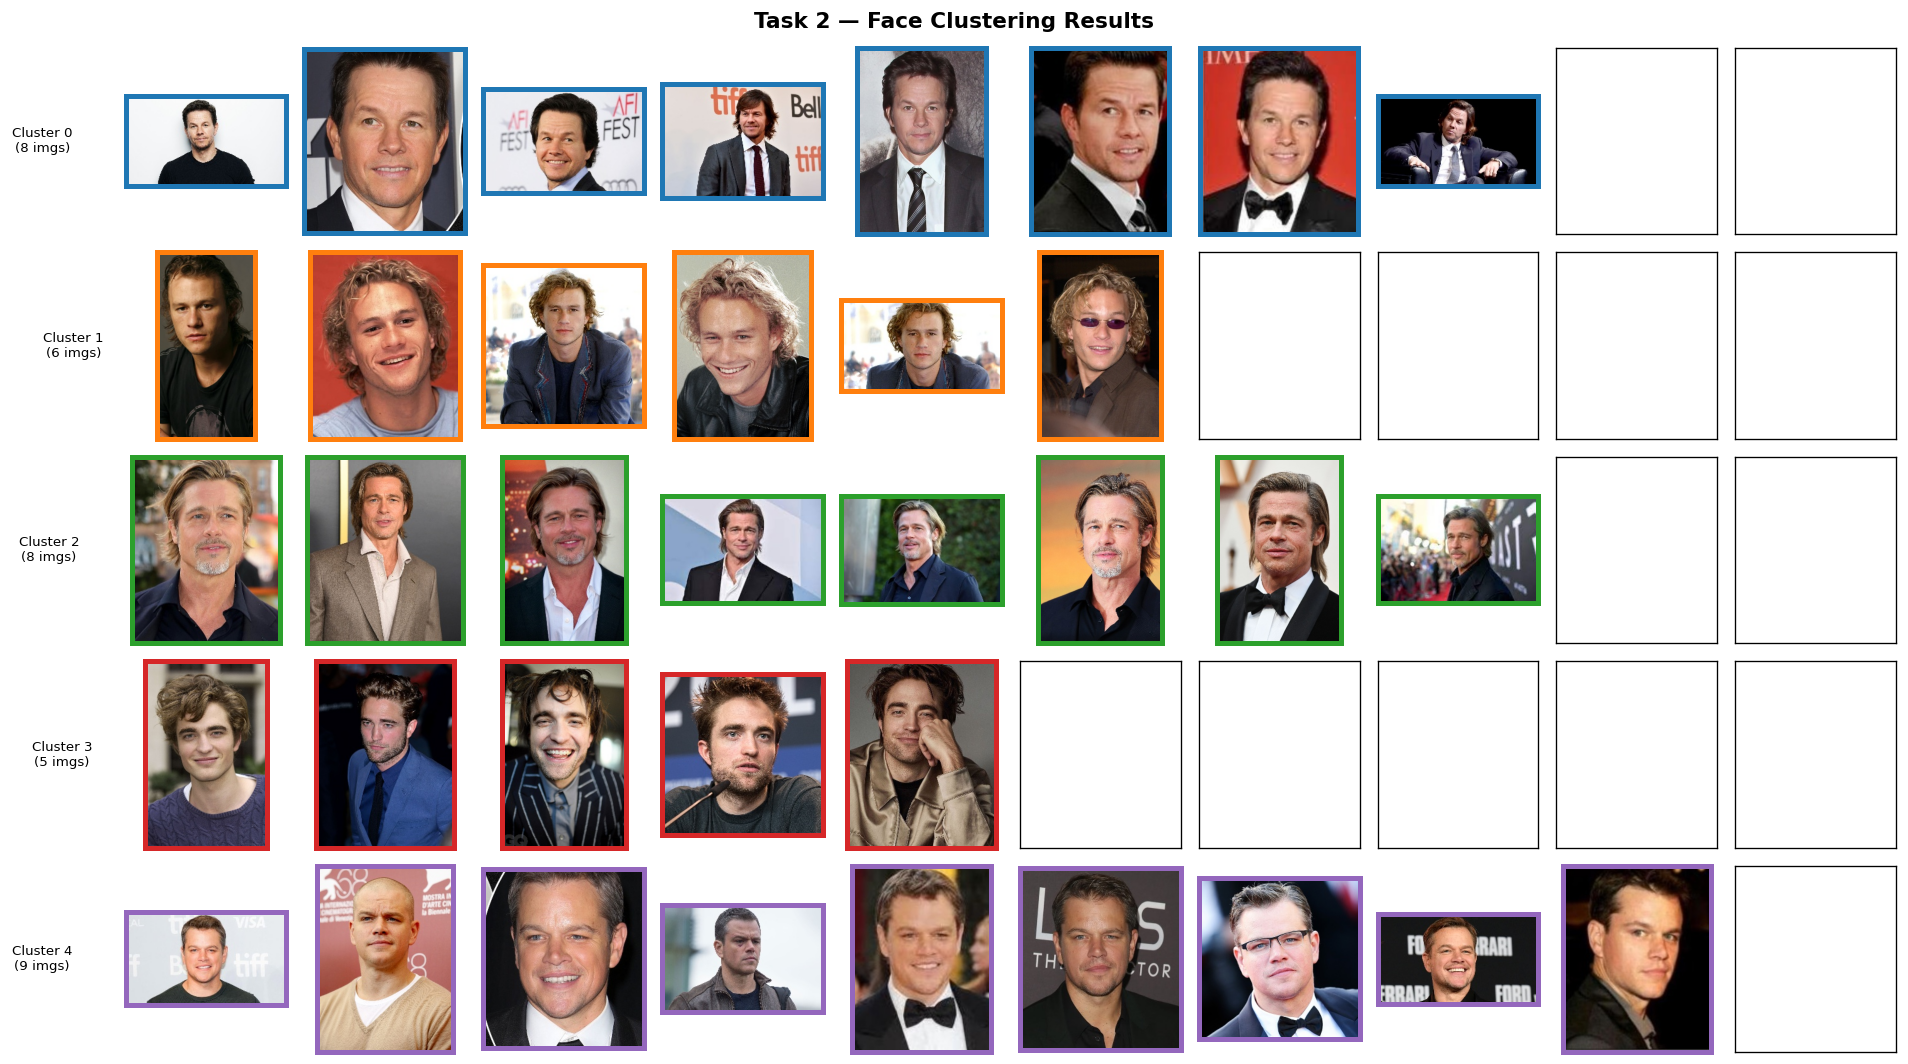
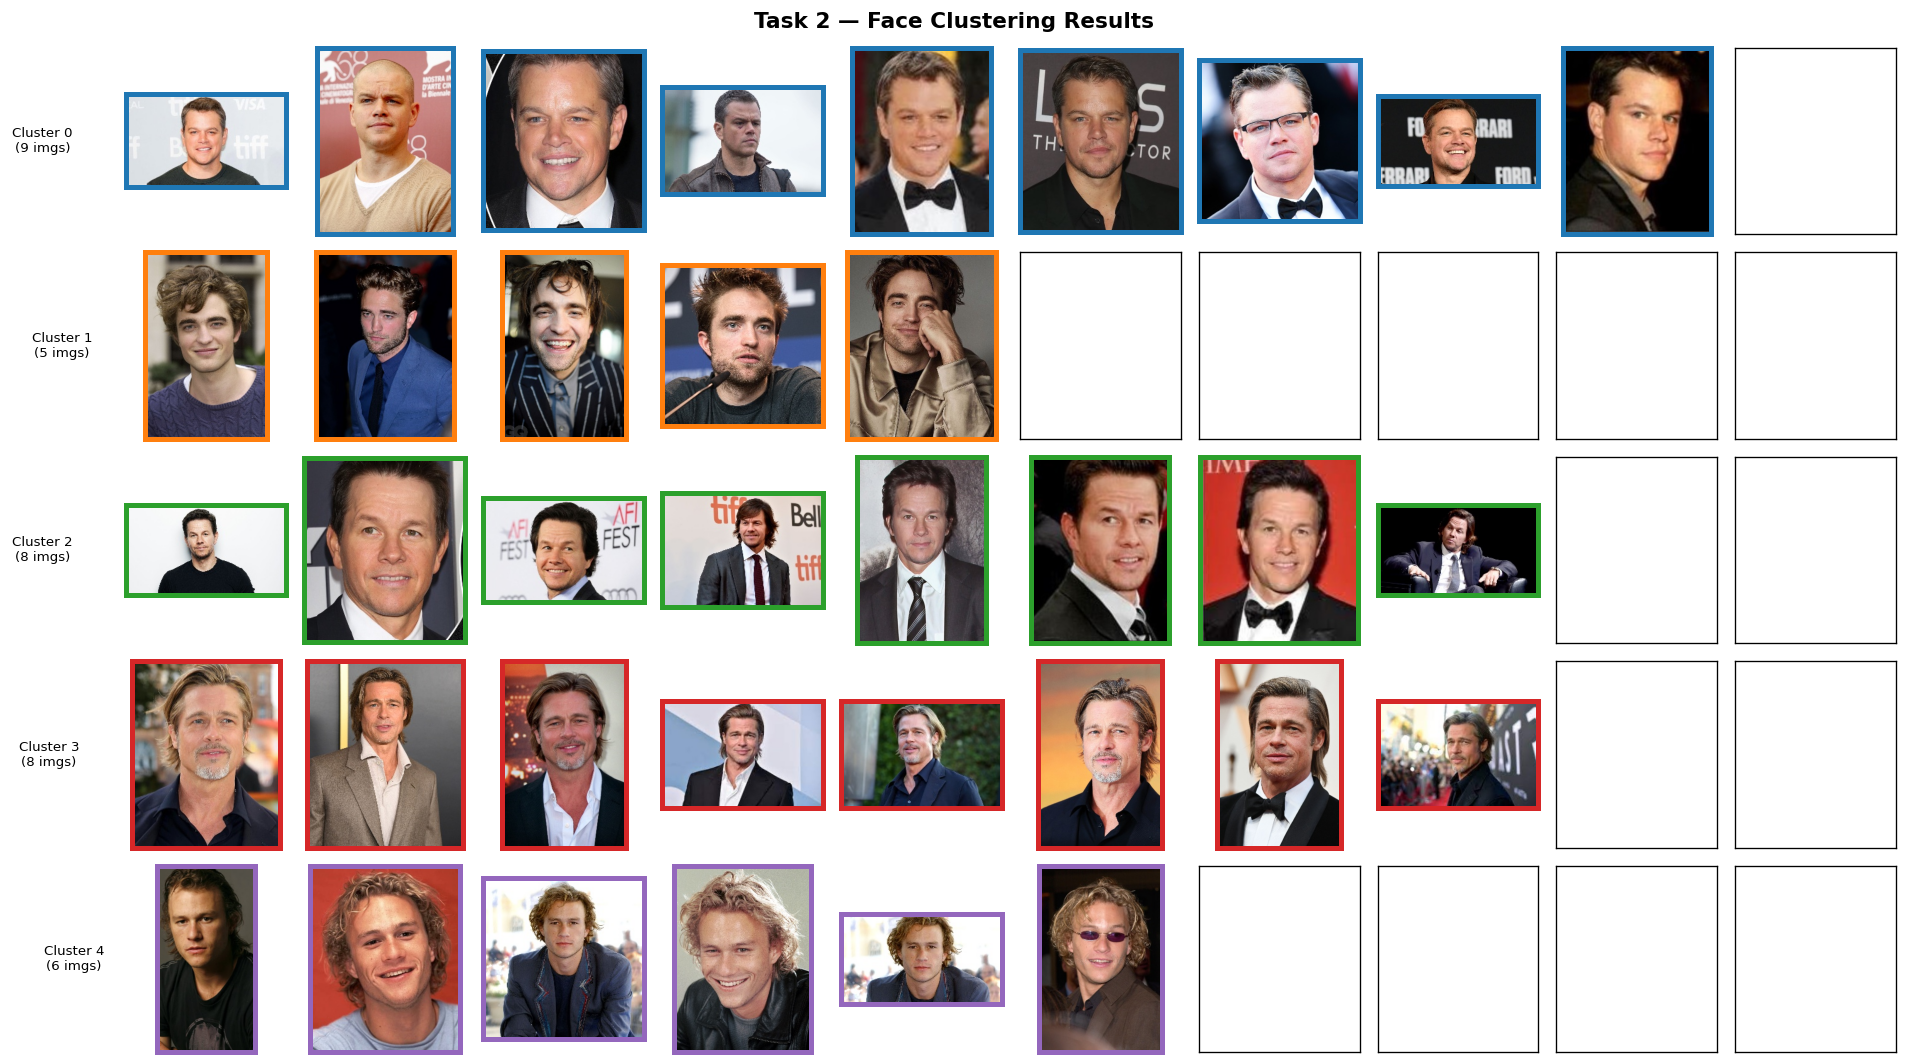
refactored task 2 to call kmeans functions, allows for use of other algos. started simple HAC from page 381 of Introduction to information retrieval by Christopher D. Manning, Hinrich Schütze, and Prabhakar Raghavan

diff --git a/face.py b/face.py
@@ -68,9 +68,23 @@ def cluster_faces(imgs: Dict[str, torch.Tensor], K: int) -> List[List[str]]:
     cluster_results: List[List[str]] = [[] for _ in range(K)] # Please make sure your output follows this data format.
         
     ##### YOUR IMPLEMENTATION STARTS HERE #####
-    torch.manual_seed(0)
+    torch.manual_seed(1)
     if imgs is None or len(imgs) == 0:
         return cluster_results
+
+    embeddings, keys = get_embeddings(imgs)
+    cluster_results = kmeans(embeddings, K, keys)
+
+    return cluster_results
+
+
+'''
+If your implementation requires multiple functions. Please implement all the functions you design under here.
+But remember the above 2 functions are the only functions that will be called by task1.py and task2.py.
+'''
+
+# TODO: Your functions. (if needed)
+def get_embeddings(imgs):
     keys = list(imgs.keys())
     vkeys = []
     embeddings = torch.zeros(len(imgs), 128) 
@@ -86,9 +100,10 @@ def cluster_faces(imgs: Dict[str, torch.Tensor], K: int) -> List[List[str]]:
         vkeys.append(keys[i])
         x += 1
     embeddings = embeddings[:x]
+    return embeddings, vkeys
+
+def kmeans(embeddings, K, keys, max_iters=100):
     #https://en.wikipedia.org/wiki/K-means_clustering
-    # https://en.wikipedia.org/wiki/K-means%2B%2B
-    # embeddings = torch.nn.functional.normalize(embeddings, dim=1)
     centroids = kmpp(embeddings, K)
     converged = False
     print(torch.cdist(centroids, centroids))
@@ -113,18 +128,12 @@ def cluster_faces(imgs: Dict[str, torch.Tensor], K: int) -> List[List[str]]:
             converged = True
         else:
             centroids = newCentroids
-    cluster_results = [[vkeys[i] for i in c] for c in clusters]
-    
+    cluster_results = [[keys[i] for i in c] for c in clusters]
     return cluster_results
 
-
-'''
-If your implementation requires multiple functions. Please implement all the functions you design under here.
-But remember the above 2 functions are the only functions that will be called by task1.py and task2.py.
-'''
-
-# TODO: Your functions. (if needed)
 def kmpp(embeddings, K):
+    # https://en.wikipedia.org/wiki/K-means%2B%2B
+    # embeddings = torch.nn.functional.normalize(embeddings, dim=1) if norm required, face_Rec pre norms 
     centroids = torch.empty(K, embeddings.shape[1], dtype=embeddings.dtype)
     firstidx = torch.randint(0, embeddings.shape[0], (1,)).item()
     centroids[0] = embeddings[firstidx]
@@ -135,26 +144,38 @@ def kmpp(embeddings, K):
         centroids[i] = embeddings[nextidx]
         n_d_2 = ((embeddings - centroids[i])** 2).sum(dim=1)
         c_d_2 = torch.minimum(c_d_2, n_d_2)
-    # centroids = []
-    # firstidx = torch.randint(0, embeddings.shape[0], (1,)).item()
-    # centroids.append(embeddings[firstidx])
-    # while len(centroids) < K:
-    #     d_2 = []
-    #     for i in range(embeddings.shape[0]):
-    #         point = embeddings[i]
-    #         minDist = torch.dist(point, centroids[0]) ** 2 # vectorize the dist 
-    #         for j in range(1, len(centroids)):
-    #             d = torch.dist(point, centroids[j]) ** 2
-    #             if d < minDist:
-    #                 minDist = d
-    #         d_2.append(minDist)
-    #     total = sum(d_2)
-    #     threshold = torch.rand(1).item() * total
-    #     cumulative = 0
-    #     for i in range(len(embeddings)):
-    #         cumulative += d_2[i]
-    #         if cumulative >= threshold:
-    #             centroids.append(embeddings[i])
-    #             break
-
     return centroids
+
+def nonVectkmpp(embeddings, K):
+    centroids = []
+    firstidx = torch.randint(0, embeddings.shape[0], (1,)).item()
+    centroids.append(embeddings[firstidx])
+    while len(centroids) < K:
+        d_2 = []
+        for i in range(embeddings.shape[0]):
+            point = embeddings[i]
+            minDist = torch.dist(point, centroids[0]) ** 2 # vectorize the dist 
+            for j in range(1, len(centroids)):
+                d = torch.dist(point, centroids[j]) ** 2
+                if d < minDist:
+                    minDist = d
+            d_2.append(minDist)
+        total = sum(d_2)
+        threshold = torch.rand(1).item() * total
+        cumulative = 0
+        for i in range(len(embeddings)):
+            cumulative += d_2[i]
+            if cumulative >= threshold:
+                centroids.append(embeddings[i])
+                break
+    return centroids
+
+def SHAC(embeddings, K):
+    N = embeddings.shape[0]
+    C = torch.tensor((N, N), dtype=torch.float32)
+    I = torch.zeros((N,), dtype=torch.float32)
+    print(I[1])
+    for n in range(N):
+        for i in range(N):
+            C[n][i] = torch.cdist(embeddings[n], embeddings[i])
+            
